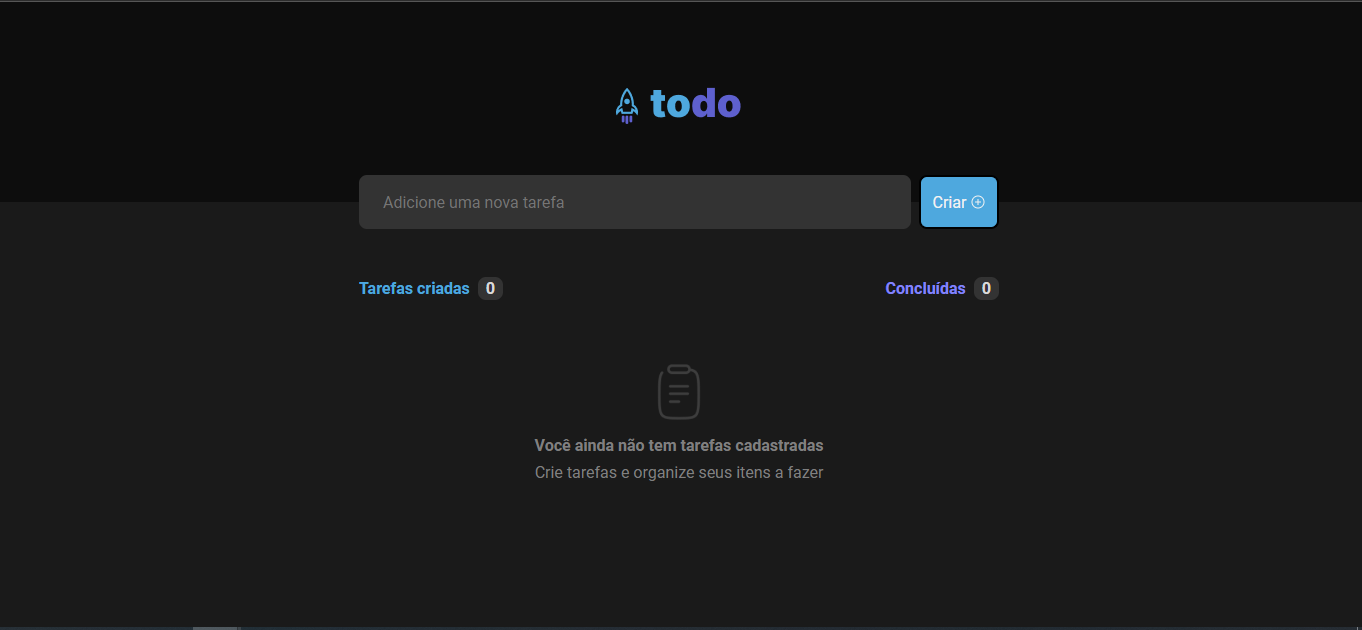
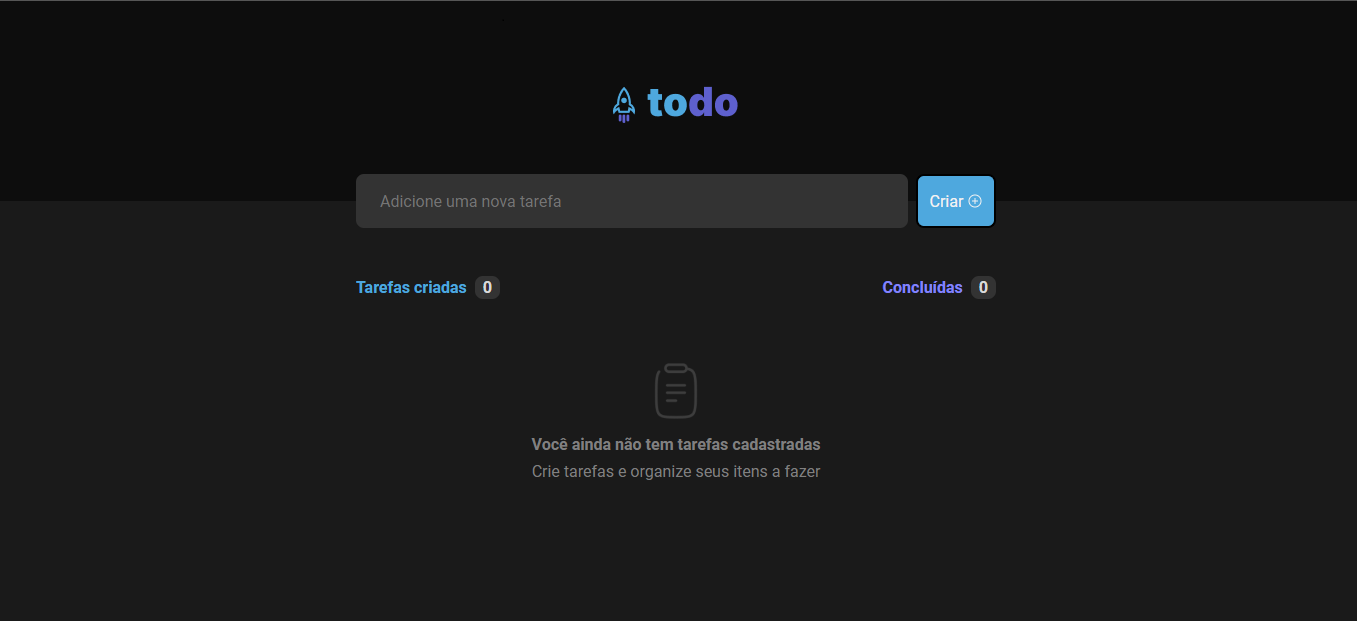
changing readme

diff --git a/README.md b/README.md
@@ -14,8 +14,11 @@ Go check it out: <a href="https://feedget-4cttv6k9w-k4me.vercel.app/"> Feedget <
 insert images
 
 <p align="center">
-  <img alt="Empty List" src="./prints/Empty.png" width="360"/>
-  <img alt="List" src="./prints/List.png" width="360"/>
+  <img alt="Empty List" src="./prints/Empty.png" width="720"/>
+</p>
+<br/>
+<p align="center">
+  <img alt="List" src="./prints/List.png" width="720"/>
 </p>
 
 ## 🔖 Layout
